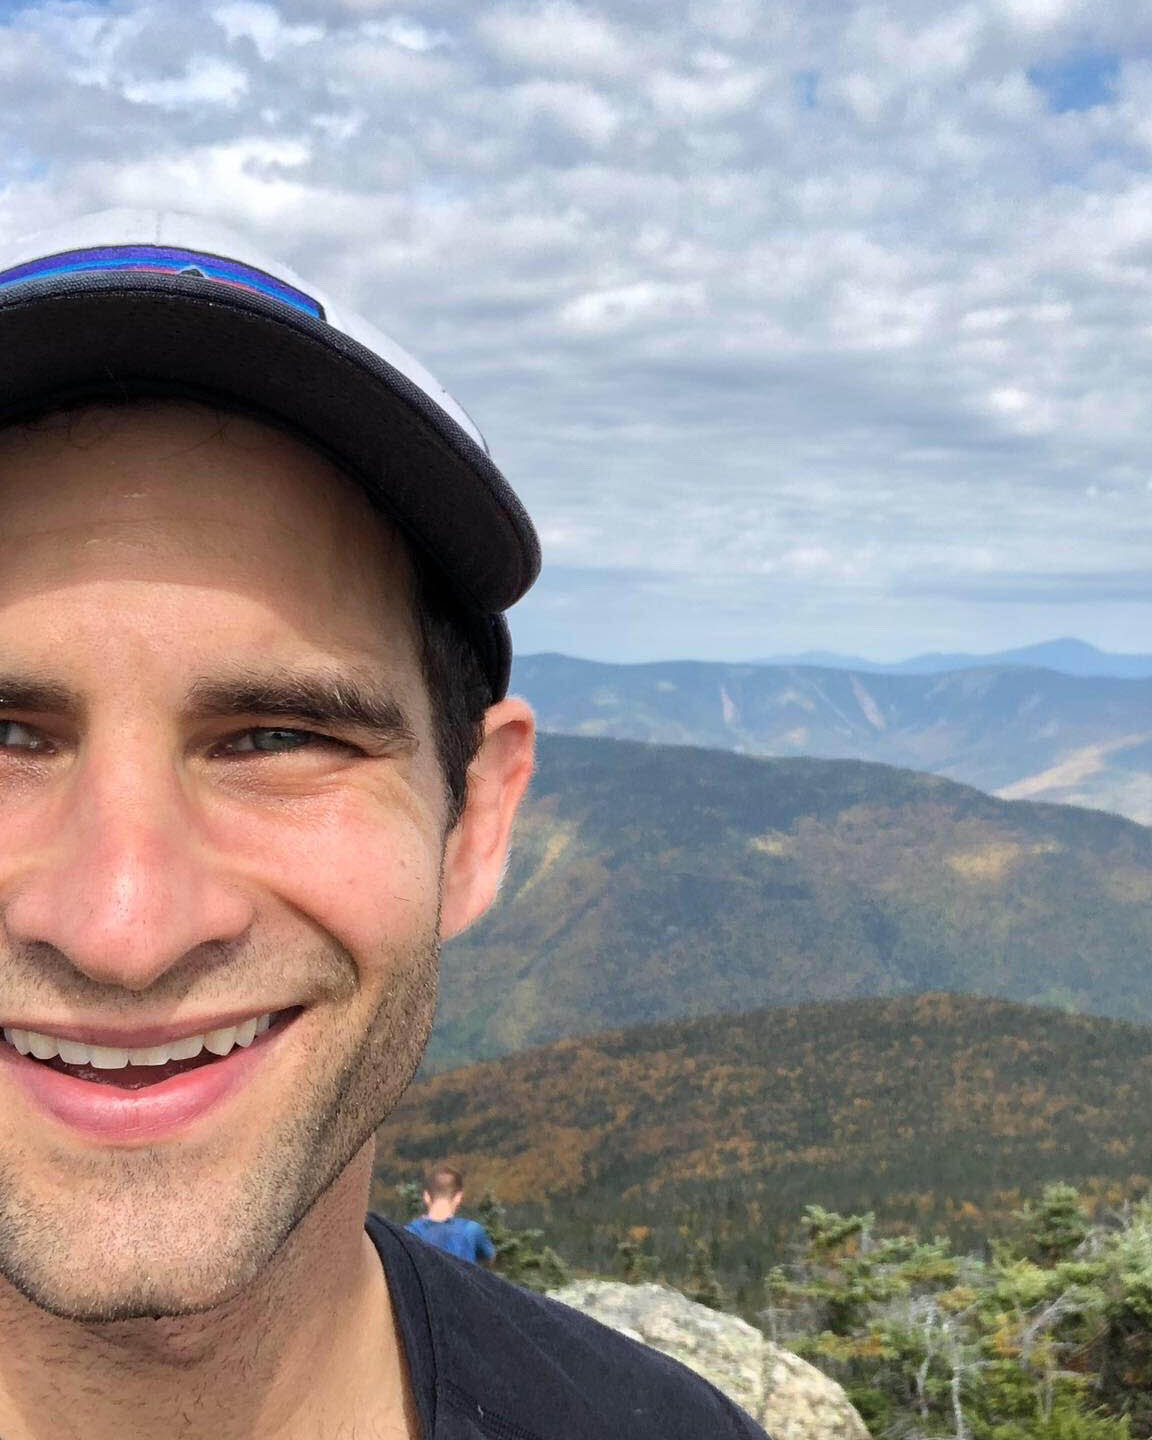
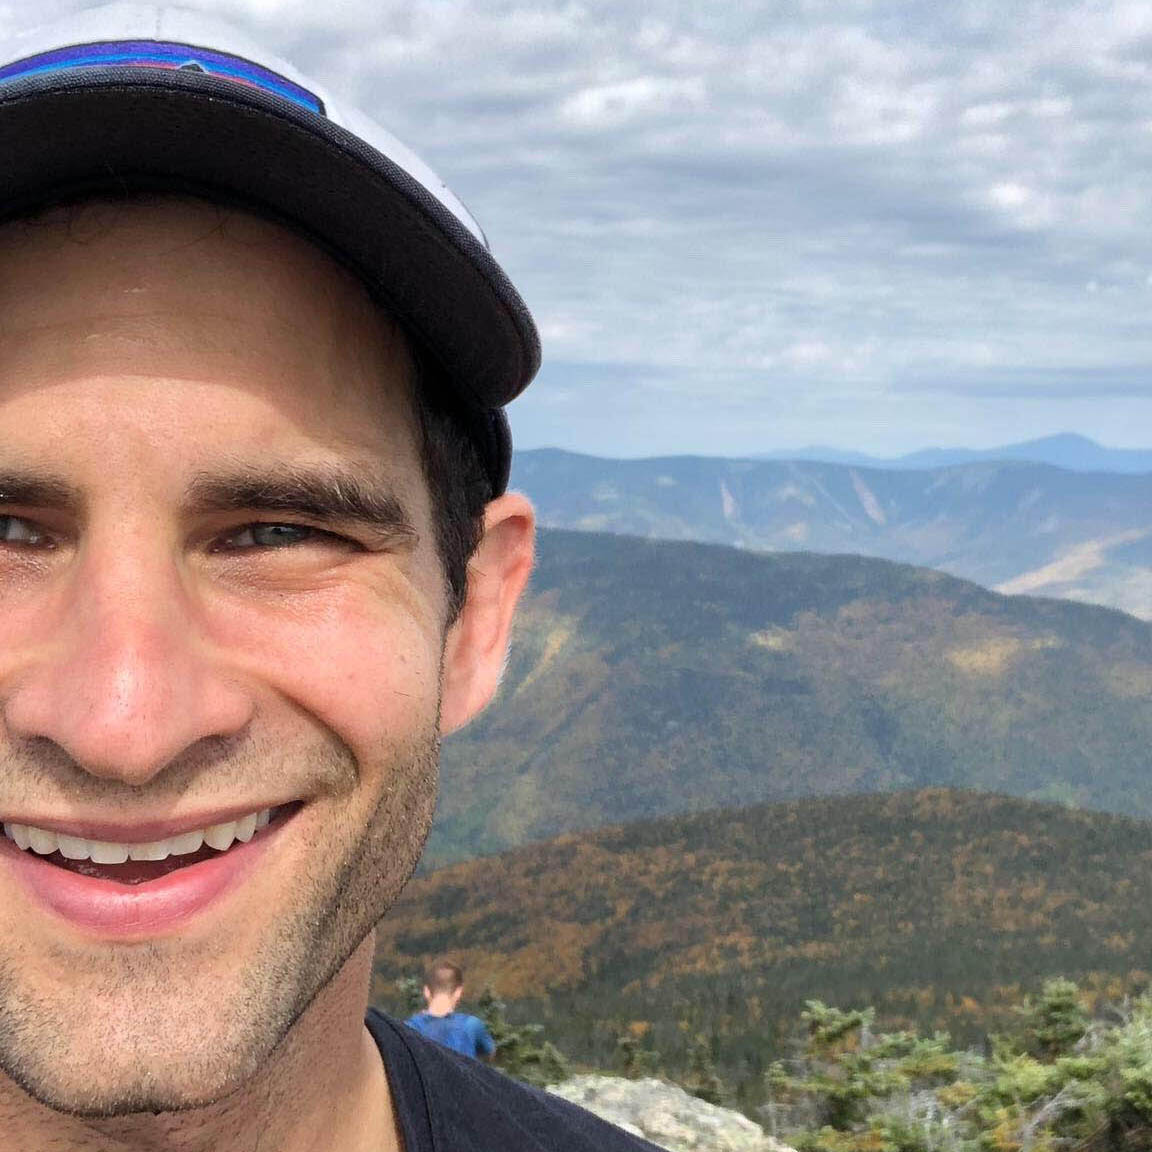
round pictures, fixed text on our-team page

diff --git a/our-team.html b/our-team.html
@@ -52,24 +52,24 @@
 						<div class="row aln-center">
 							<div class="col-4 col-12-medium">
 								<section class="highlight">
-									<img src="images/adamface.jpg" alt=""  class="image featured"/>
-									<h3>Adam Steel</h3>
+									<img src="images/adamface.jpg" alt=""  class="image featured-round"/>
+									<h3 style="color: #fff;">Adam Steel</h3>
 									<p style="font-size: 1.2em">Dartmouth College</p>
 								</section>
                             </div>
                             
 							<div class="col-4 col-12-medium">
 								<section class="highlight">
-									<img src="images/pic03.jpg" alt=""  class="image featured"/>
-									<h3>Vassiki Chauhan</h3>
+									<img src="images/pic03.jpg" alt=""  class="image featured-round"/>
+									<h3 style="color: #fff;">Vassiki Chauhan</h3>
 									<p style="font-size: 1.2em">Dartmouth College</p>
 								</section>
                             </div>
                             
 							<div class="col-4 col-12-medium">
 								<section class="highlight">
-									<img src="images/pic04.jpg" alt=""  class="image featured"/>
-									<h3>Luke Slipski</h3>
+									<img src="images/Luke.jpg" alt=""  class="image featured-round"/>
+									<h3 style="color: #fff;">Luke Slipski</h3>
 									<p style="font-size: 1.2em">Dartmouth College</p>
 								</section>
                             </div>
@@ -92,7 +92,7 @@
 						<div class="row aln-center">
 							<div class="col-4 col-12-medium">
 								<section class="highlight">
-									<img src="images/Jim 4-3.jpg" alt=""  class="image featured"/>
+									<img src="images/Jim-square.jpg" alt=""  class="image featured-round"/>
 									<h3>Jim Haxby</h3>
 									<p style="font-size: 1.2em">Dartmouth College</p>
 								</section>
@@ -100,7 +100,7 @@
                             
                             <div class="col-4 col-12-medium">
 								<section class="highlight">
-									<img src="images/rogers_20202.jpg" alt="" class="image featured"/>
+									<img src="images/rogers_20202.jpg" alt="" class="image featured-round"/>
 									<h3>Courtney Rogers</h3>
 									<p style="font-size: 1.2em">Coordinator, Dartmouth College</p>
 								</section>

diff --git a/assets/css/main.css b/assets/css/main.css
@@ -1620,6 +1620,12 @@ input, select, textarea {
 			width: 100%;
 			margin: 0 0 2em 0;
 		}
+		.image.featured-round {
+			display: block;
+			width: 100%;
+			margin: 0 0 2em 0;
+			border-radius: 50%;
+		}
 
 /* Button */
 
